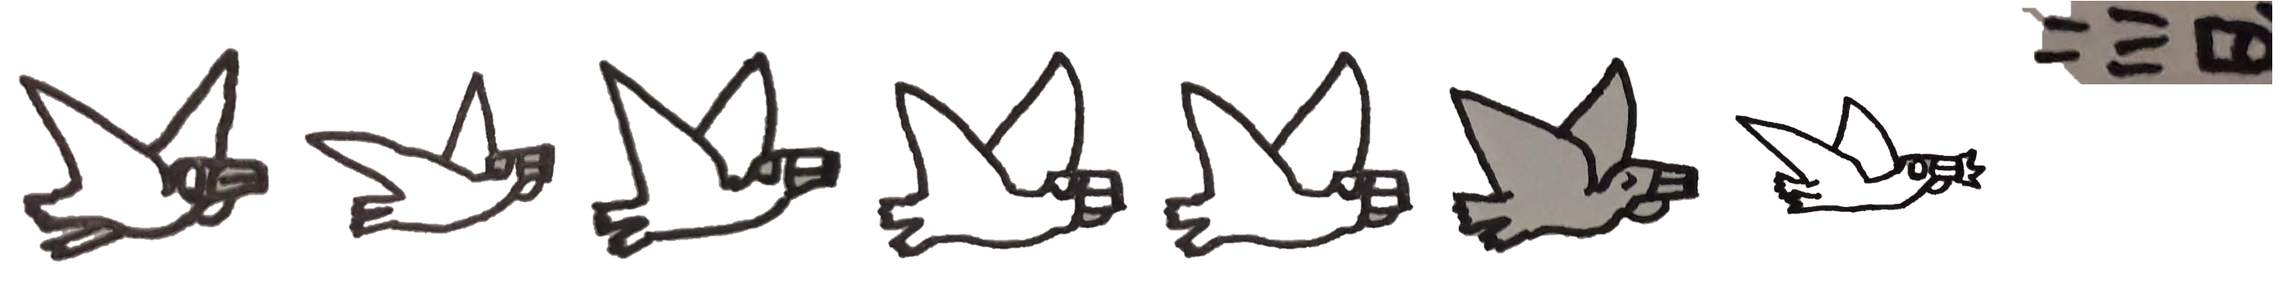
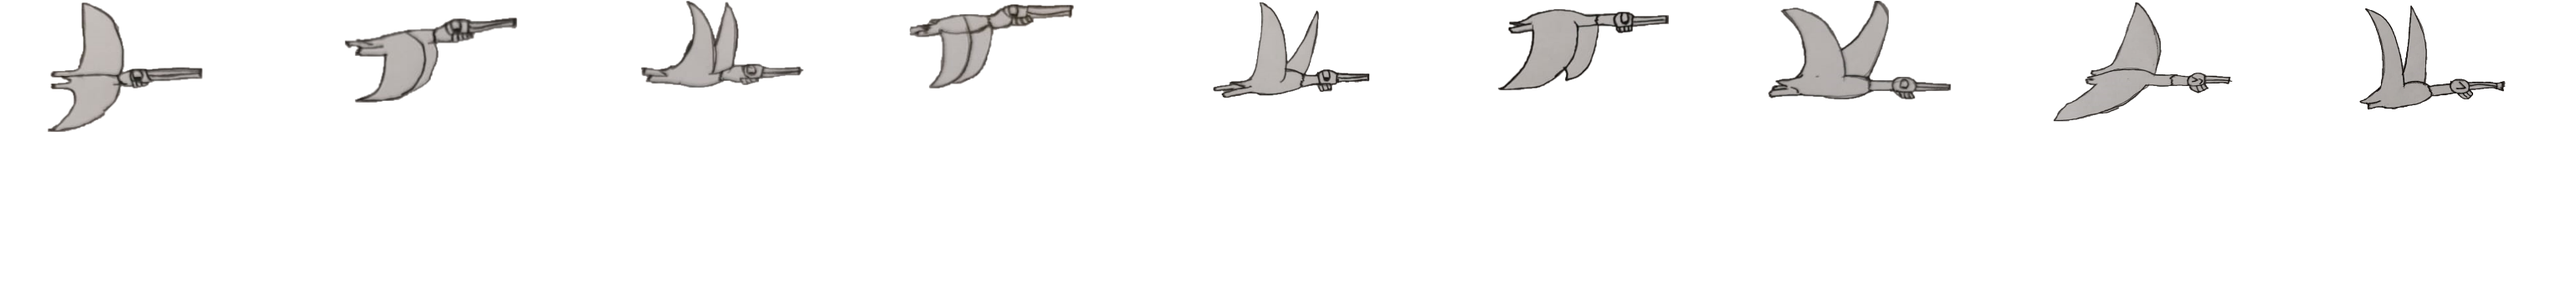
0.62

Changed region(s): [[0.0, 0.0, 0.7767, 0.8645], [0.7456, 0.0298, 0.8699, 0.7154], [0.8699, 0.0, 0.9942, 0.3577]]

diff --git a/wonderballgame/wonderball_def.js b/wonderballgame/wonderball_def.js
@@ -444,7 +444,7 @@ const card19 = {
 allTypes.push(card19);
 
 const wonderball20 = new Image();
-wonderball20.src = 'wonderballs/newgunbird.png';
+wonderball20.src = 'wonderballs/gunbird.png';
 wonderballTypes.push(wonderball20);
 
 const wonderball20proy = new Image();
@@ -460,9 +460,9 @@ const card20 = {
   projectile_img: wonderball20proy,
   projectile_type:penetratingproj,
   shootingFrames : 2,
-  restingFrames : 2,
+  restingFrames : 6,
   rechargeFrames: 0,
-  shootFrame:2
+  shootFrame:3
 }
 allTypes.push(card20);
 
@@ -574,10 +574,10 @@ const card25 = {
   type: teamwork,
   projectile_img: wonderball25proy,
   projectile_type: straightpath,
-  shootingFrames : 4,
-  restingFrames : 2,
+  shootingFrames : 2,
+  restingFrames : 4,
   rechargeFrames: 0,
-  shootFrame:5
+  shootFrame:6
 }
 allTypes.push(card25);
 
@@ -999,9 +999,9 @@ const card46 = {
   type: distanceshoot,
   projectile_img: hielagisantesproy,
   projectile_type: timestopproj,
-  shootingFrames : 1,
-  restingFrames : 2,
-  shootFrame: 3
+  shootingFrames : 6,
+  restingFrames : 7,
+  shootFrame: 13
 }
 allTypes.push(card46)
 const wonderball47 = new Image();
